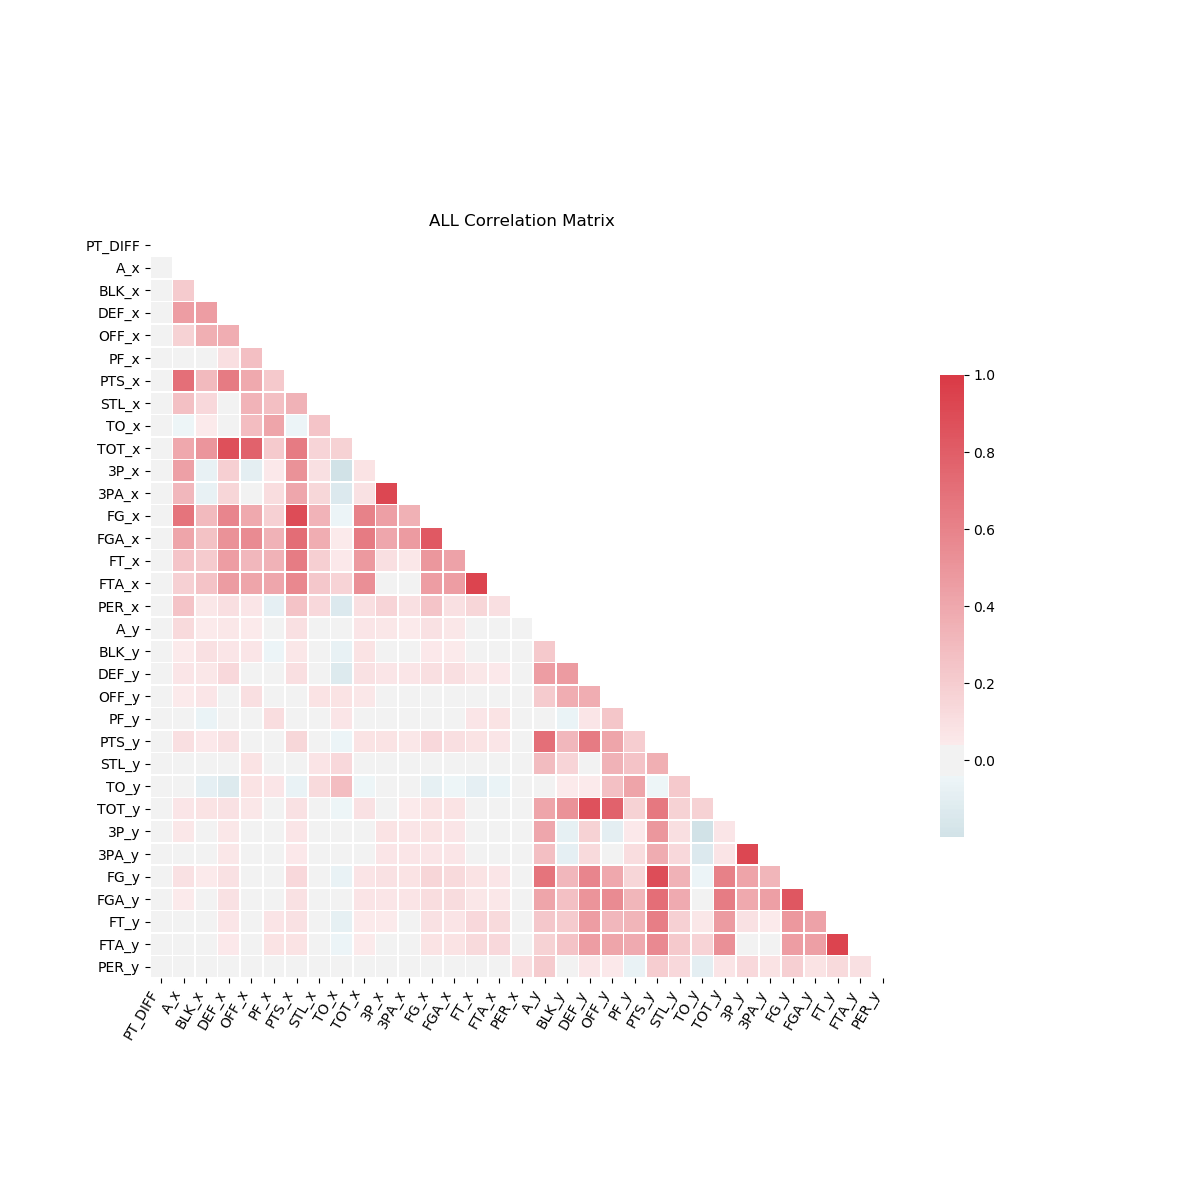
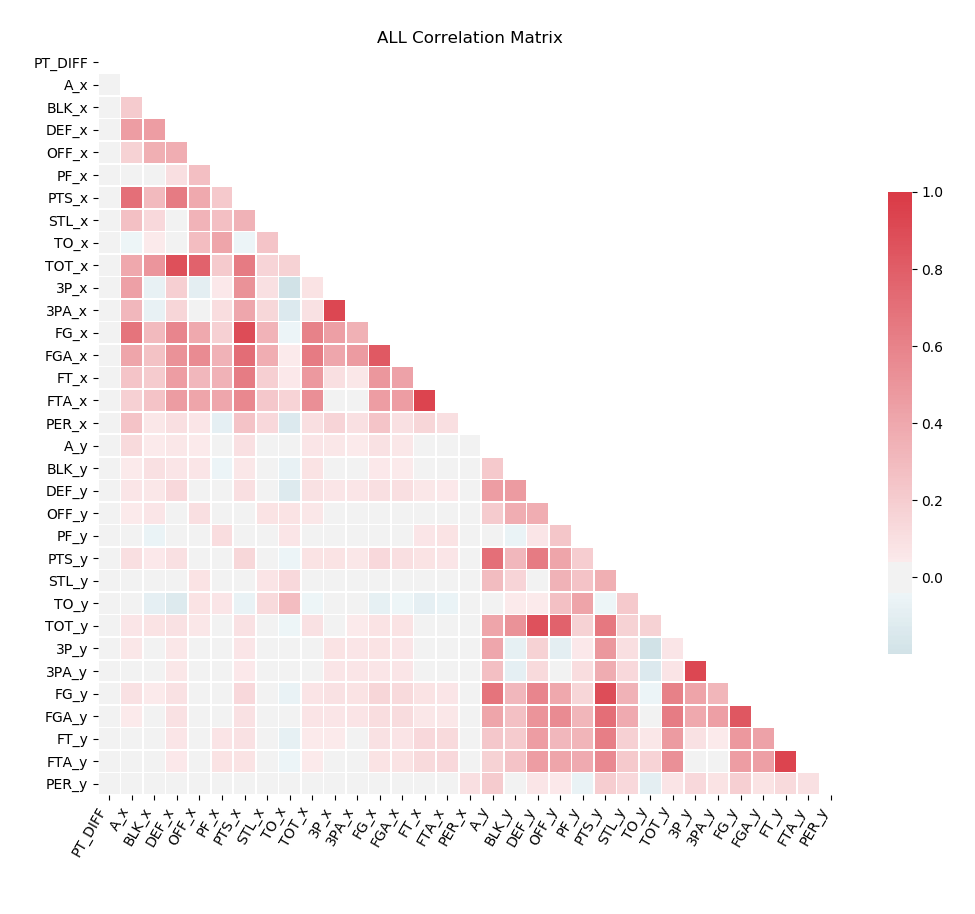
ALL Corr mat

diff --git a/hypoth.py b/hypoth.py
@@ -57,7 +57,8 @@ def make_histograms(dfs):
         n[0].plot(kind='hist',ax=ax)
         n[0].plot(kind='kde',ax=ax,secondary_y=True)
         ax.set_title(n[1])
-    plt.suptitle('Yearly PER Distributions')
+    plt.suptitle('Yearly PER Distributions', size=14, y = 1.08)
+    plt.tight_layout()
     plt.show()
 
 def gen_ks_test(df):
@@ -106,7 +107,7 @@ if __name__ == '__main__':
             (df7_per,'2012-2013'),(df8_per,'2013-2014'),(df9_per,'2014-2015'),
             (df10_per,'2015-2016'),(df11_per,'2016-2017'),(df12_per,'2017-2018')]
 
-    #make_histograms(dfs)
+    make_histograms(dfs)
     #KS Test, null hypothesis is distributions are equal.  Comparing data to normal.
     #ks_vals = check_normality(dfs)
     #p_values < 0.05 reject null, thus non non-normal,
@@ -124,7 +125,7 @@ if __name__ == '__main__':
     # one sample will be less than or greater than a randomly selected value from a
     # second sample.  The alternative hypothesis is that
 
-    scs.mannwhitneyu(df1_per.values,df11_per.values,alternative='less')
+    #scs.mannwhitneyu(df1_per.values,df11_per.values,alternative='less')
     #MannwhitneyuResult(statistic=54985.0, pvalue=0.04323639531512454)
     #since p_value (0.043) is less than alpha of 0.05 we will reject our null hypothes is that it
     #equally likely a randomly selected mean PER from 2006-2007 will be less than a

diff --git a/README.md b/README.md
@@ -9,7 +9,7 @@ Player Efficiency Rating (PER) is a per-minute rating developed by John Hollinge
 PER/p predict per game point differential?
 
 ## EDA/Cleaning
-A majority of the data used was contained within per games box scores.  Since compares and predictions are going to be made on seasonal averages, the data needed to be aggregated.  The data was split into three separate matrices to assist in the final aggregation.
+A majority of the data used was contained within per games box scores.  Since compares and predictions are going to be made on seasonal averages, the data needed to be aggregated.  The data was split into three separate matrices to assist in the final aggregation.  The dataset used for modeling will combine yearly averages of two competing teams.
 
 ### Data
 #### Player
@@ -67,8 +67,8 @@ Most statistics seen here are tracked by the official scorer for the game.  Addi
 
 
 #### EDA
-
-
+![Correlation Matrix of both team features](figs/ALL_Correlation_Matrix.png)
+The correlation matrix above highlights some correlated features that are easily understood.  Free Throw makes (FT) is going to be highly correlated with Free Throw Attempts (FTA).  Similarly, Assists (A) will be highly correlated with Field Goals (FG).  The light box in the bottom left highlights the fact that most stats between competing teams are not correlated.  
 
 ### Conclusion
 The PER statistic is known to mainly use offensive statistics.  While it contains some defensive values, they do not fully measure a player's defensive capabilities.  Additionally, the data used, does not take into account play styles by different teams.  Since some teams may have a play style that focuses mainly on offense and not defense, they may score a lot of points and have an inflated PER/p, without winning many games.  Conversely, a team that focuses on defense, will have a lower PER/p, but they could win a lot of games. This inability to quantify defense in the data used could be introducing too much noise in the data to truly be able to predict well.
